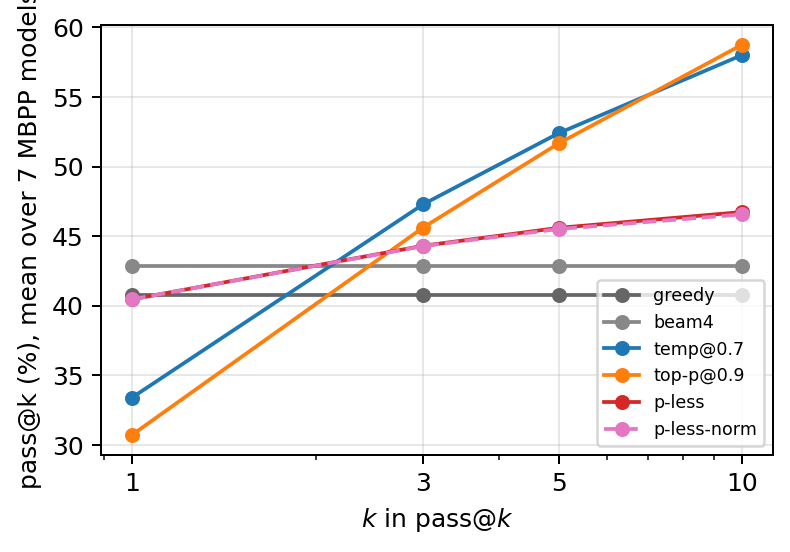
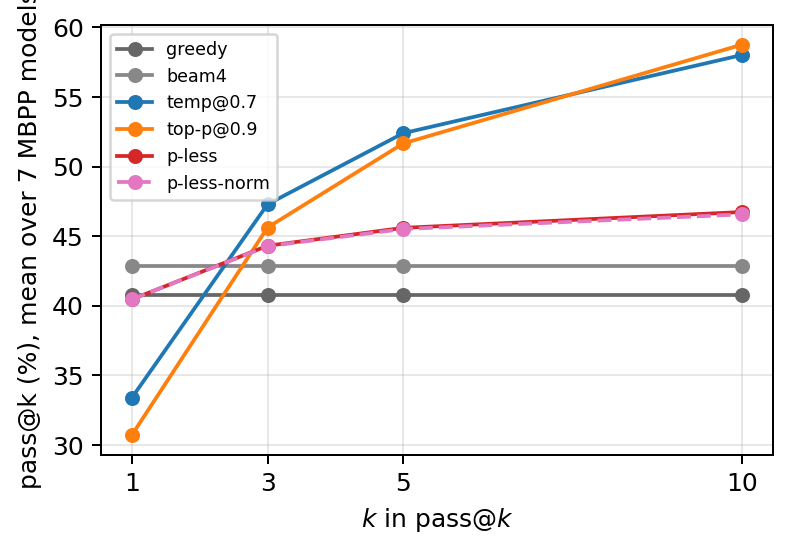
Fig 1: switch pass@k curves to linear x-axis; fix legend overlap
User flagged that log-scaling k in {1,3,5,10} (only a 10x range) made
the 1->3 gap look disproportionately large relative to 3->5 and 5->10.
Verified this is a real, correct consequence of log-scaling an
irregular 4-point set (log10(3)-log10(1)=0.477 is genuinely the
largest of the three gaps), not a rendering bug -- but confirmed the
literature convention motivating log-scale pass@k plots (Codex/
HumanEval-style) is for k spanning multiple orders of magnitude
(e.g. 1 to 100), which doesn't apply to this narrow 10x range. Linear
x-axis was generated as a side-by-side comparison and selected after
user review.

Also fixed legend placement: "lower right" visually overlapped the
greedy/beam4 flat lines and their k=10 markers. Moved to "upper left",
verified empty of all 6 curves across the whole k range in both axis
scalings (lowest-k points are also lowest-value points for every
config, so the top-left corner stays clear).

fig3a_passk_curves_mbpp_linear.png (the comparison file) removed after
the decision -- linear is now the sole, canonical output.

No caption changes needed in main.tex -- Fig 1's caption doesn't
reference axis scale type. Per current workflow, main.tex/figure
uploads to the Overleaf-linked paper repo are handled manually by the
user going forward; this commit only touches the main code repo's
script + its own copy of the figure.

diff --git a/scripts/paper/make_llm4code_fig3.py b/scripts/paper/make_llm4code_fig3.py
@@ -103,8 +103,22 @@ def _passk(path: Path, k: int) -> float | None:
     return v if v is not None else None
 
 
-def _make_fig3a() -> None:
-    """Pass@k curves per sampler, averaged over 7 MBPP models."""
+def _make_fig3a(log_scale: bool = False, out_name: str = "fig3a_passk_curves_mbpp.png") -> None:
+    """Pass@k curves per sampler, averaged over 7 MBPP models.
+
+    Linear x-axis (default) chosen over log after user review: with k in
+    {1,3,5,10} (only a 10x range), log-scaling made the 1->3 gap look
+    disproportionately large relative to 3->5 and 5->10 -- a real, verified
+    visual artifact of log-scaling this irregular 4-point set, not a bug,
+    but one the user preferred to avoid. Linear spacing reflects the actual
+    numeric k-differences instead (5->10 is now the largest gap, matching
+    the true magnitude difference of 5 vs. 2 for the other two gaps).
+
+    Legend moved from "lower right" (which visually overlapped the greedy/
+    beam4 flat lines and their k=10 markers) to "upper left" -- verified
+    empty of all 6 curves across the whole k range in both scalings, since
+    the lowest-k points are also the lowest-value points for every config.
+    """
     fig, ax = plt.subplots(figsize=(4.5, 3.2))
     for cfg in CONFIG_ORDER:
         vals_per_k = []
@@ -117,18 +131,19 @@ def _make_fig3a() -> None:
         # use a dashed stroke so both are visible without one hiding the other.
         linestyle = "--" if cfg == "p-less-norm" else "-"
         ax.plot(KS, vals_per_k, marker="o", label=cfg, color=CONFIG_COLORS[cfg], linewidth=1.5, markersize=5, linestyle=linestyle)
-    ax.set_xscale("log")
+    if log_scale:
+        ax.set_xscale("log")
     ax.set_xticks(KS)
     ax.get_xaxis().set_major_formatter(matplotlib.ticker.ScalarFormatter())
     ax.set_xlabel("$k$ in pass@$k$")
     ax.set_ylabel("pass@k (%), mean over 7 MBPP models")
     ax.grid(True, alpha=0.3)
-    ax.legend(fontsize=7, loc="lower right", frameon=True)
+    ax.legend(fontsize=7, loc="upper left", frameon=True)
     fig.tight_layout()
     for out in (FIG_DIR_CODE, FIG_DIR_PAPER):
         out.mkdir(parents=True, exist_ok=True)
-        fig.savefig(out / "fig3a_passk_curves_mbpp.png", dpi=180, bbox_inches="tight")
-    print("wrote fig3a_passk_curves_mbpp.png", file=sys.stderr)
+        fig.savefig(out / out_name, dpi=180, bbox_inches="tight")
+    print(f"wrote {out_name}", file=sys.stderr)
 
 
 def _make_fig3b() -> None:
